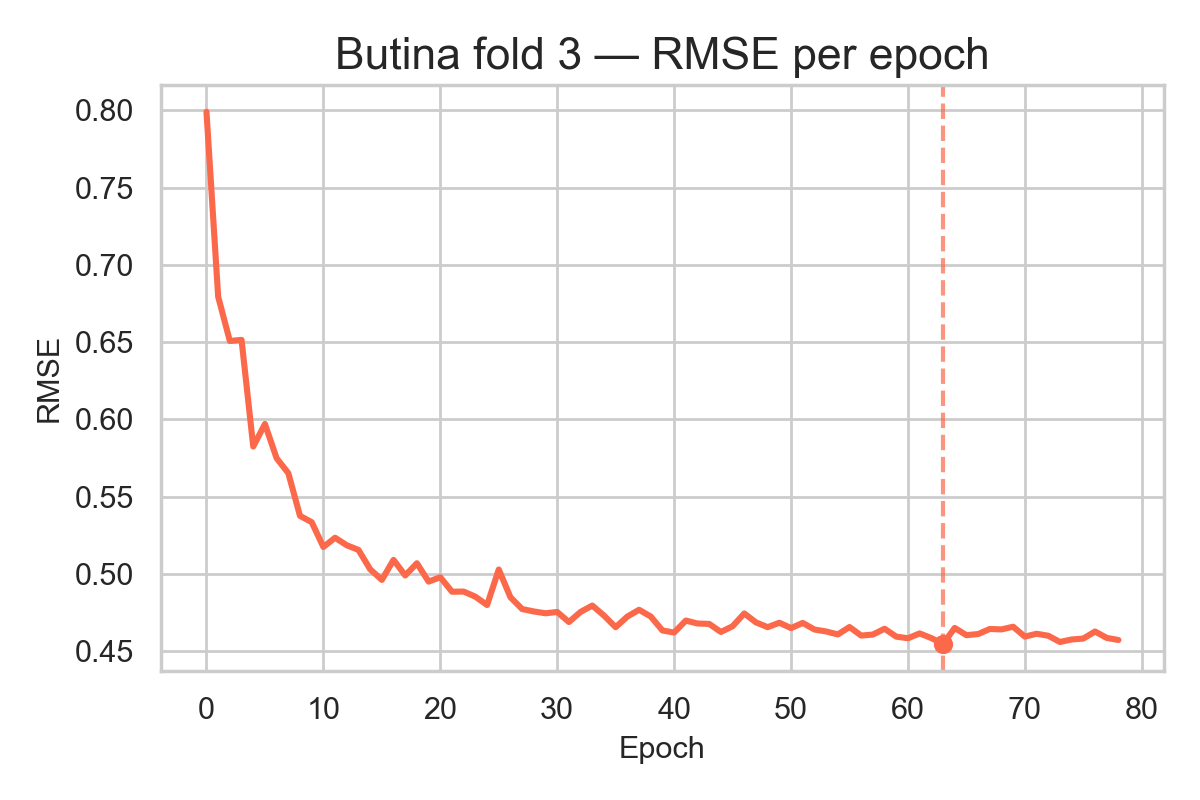
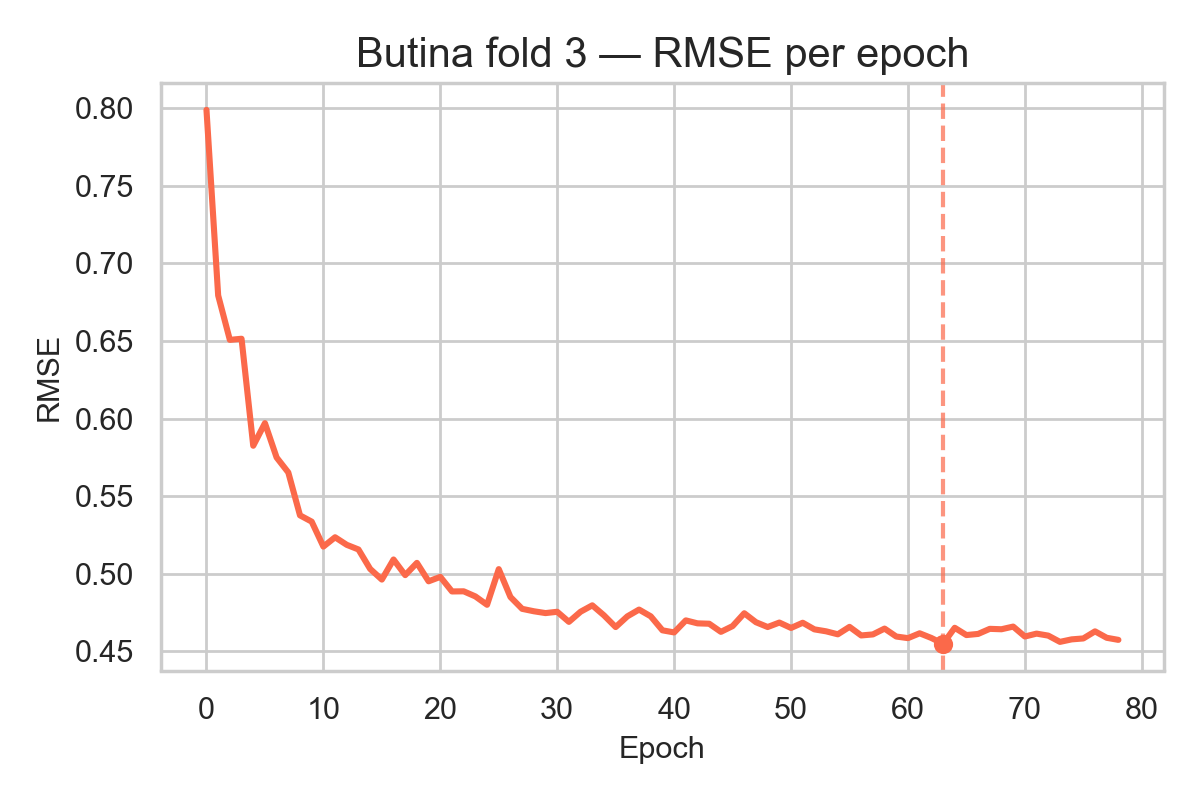
updating loss title to 15

diff --git a/p2_models/src/loss_training_graph.py b/p2_models/src/loss_training_graph.py
@@ -59,7 +59,7 @@ def plot_one(base_models_dir: Path, out_dir: Path, split: str, fold: int, color)
         return False
 
     split_title = pretty_split_name(split)
-    plt.title(f"{split_title} fold {fold} — RMSE per epoch", size=16)
+    plt.title(f"{split_title} fold {fold} — RMSE per epoch", size=15)
     plt.tight_layout()
     plt.xlabel("Epoch", size=11)
     plt.ylabel("RMSE", size=11)
